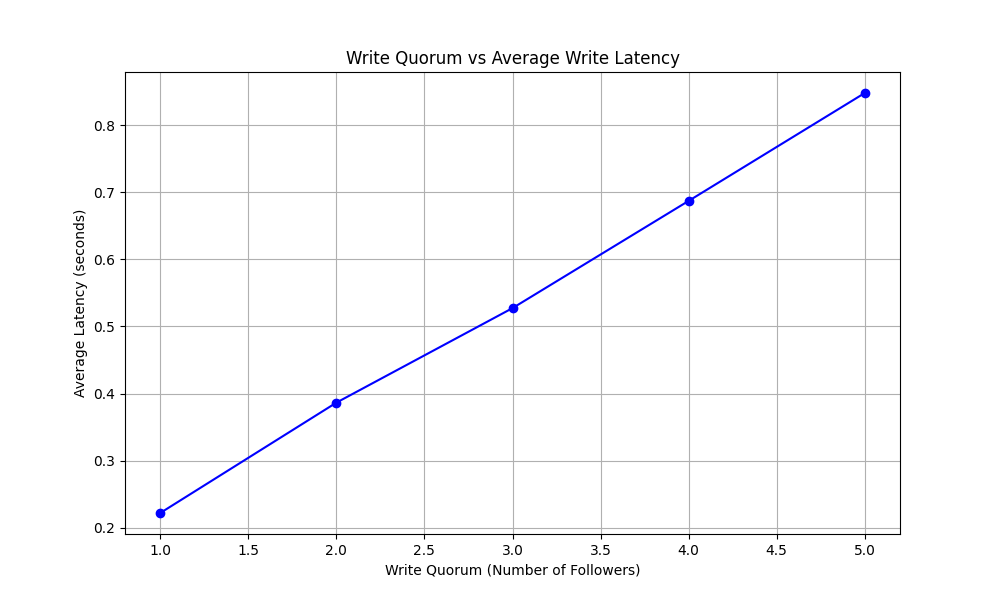
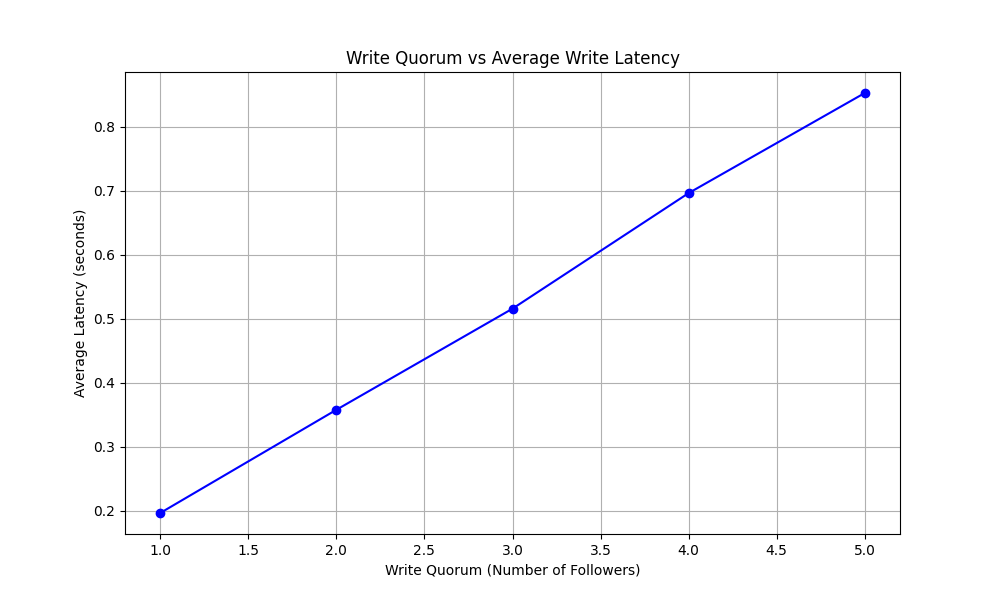
Code - done, report - not feeling like doing it rn

diff --git a/lab4/client/client.py b/lab4/client/client.py
@@ -26,35 +26,32 @@ def write_task(key, value):
         # print(f"Write error: {e}")
         return False, time.time() - start
 
-def check_consistency(keys):
+def check_consistency():
     mismatches = 0
     print("Verifying consistency...")
-    
-    # Get Leader Data
-    leader_data = {}
-    for key in keys:
-        try:
-            resp = requests.get(f"{LEADER_URL}/get/{key}", timeout=2)
-            if resp.status_code == 200:
-                leader_data[key] = resp.json()
-            else:
-                leader_data[key] = None
-        except:
-            leader_data[key] = None
+
+    # Get all data from Leader
+    try:
+        resp = requests.get(f"{LEADER_URL}/getall", timeout=2)
+        leader_data = resp.json() if resp.status_code == 200 else {}
+    except:
+        leader_data = {}
 
     # Check Followers
     for f_idx, f_url in enumerate(FOLLOWER_URLS):
-        for key in keys:
-            try:
-                resp = requests.get(f"{f_url}/get/{key}", timeout=2)
-                follower_val = resp.json() if resp.status_code == 200 else None
-            except:
-                follower_val = None
-            
-            if leader_data.get(key) != follower_val:
+        try:
+            resp = requests.get(f"{f_url}/getall", timeout=2)
+            follower_data = resp.json() if resp.status_code == 200 else {}
+        except:
+            follower_data = {}
+
+        # Compare key by key
+        for key, leader_val in leader_data.items():
+            follower_val = follower_data.get(key)
+            if leader_val != follower_val:
                 mismatches += 1
-                # print(f"Mismatch Key={key}: Leader={leader_data.get(key)} Follower{f_idx+1}={follower_val}")
-    
+                # print(f"Mismatch Key={key}: Leader={leader_val} Follower{f_idx+1}={follower_val}")
+
     return mismatches
 
 def check_consistency_getall():
@@ -181,17 +178,6 @@ def run_experiment():
     plt.savefig(output_file)
     print(f"\nPlot saved to {output_file}")
     
-    print("\nExplanation:")
-    print("1. Latency vs Quorum: As the write quorum increases, the leader must wait for acknowledgments from more followers.")
-    print("   This introduces additional network latency and processing time (waiting for the slowest of the N required followers).")
-    print("   Therefore, we expect the average latency to increase with the quorum size.")
-    print("2. Consistency: In this implementation, followers update their state immediately upon receiving a request.")
-    print("   The leader updates its state only after the quorum is reached.")
-    print("   Since we are checking consistency after all writes have completed and the system is quiescent,")
-    print("   we expect the data to be consistent across all nodes, assuming no permanent failures occurred.")
-    print("   If a write failed (quorum not reached), the leader wouldn't have updated, but some followers might have.")
-    print("   This could lead to inconsistency if we checked failed writes, but for successful writes, all should match.")
-
 if __name__ == "__main__":
     run_experiment()
 

diff --git a/lab4/LeaderApp/Leader.cs b/lab4/LeaderApp/Leader.cs
@@ -25,17 +25,6 @@ public class Leader
         delayMs.Item2 = maxDelayMs;
         _httpClient = new HttpClient();
     }
-
-    public Task RunAsync()
-    {
-        var builder = WebApplication.CreateBuilder();
-        var app = builder.Build();
-
-        app = RegisterLeaderEndpoints(app);
-        app = CommonRequestHandler.RegisterGetRequest(app, _storage);
-        
-        return app.RunAsync(_url);
-    }
     
     private async Task<bool> HandlePutRequest(string key, string value)
     {
@@ -130,7 +119,7 @@ public class Leader
     {
         app.MapPost("/put", async (PutRequest body) =>
         {
-            Log.Info("Received put");
+            Log.Info($"Received put {body.Key} :: {body.Value}");
             var success = await HandlePutRequest(body.Key, body.Value);
             return success ? Results.Ok() : Results.BadRequest();
         });

diff --git a/lab4/README.md b/lab4/README.md
@@ -1,2 +1,22 @@
-## Laboratory Work #4: Leader-Follower storage system
+## Laboratory Work #4: Leader-Follower key-value storage system
 
+
+```bash
+$env:WRITE_QUORUM = "2"
+echo $env:WRITE_QUORUM
+```
+
+```bash
+docker compose down
+docker compose up
+```
+
+```bash
+curl -Method POST "http://localhost:8080/put" -Headers @{ "Content-Type"="application/json" } -Body '{"key": "key", "value": "value"}'
+```
+
+```bash
+curl.exe http://localhost:8080/get?key=key
+```
+
+<img src="client/latency_plot.png" width="80%">
